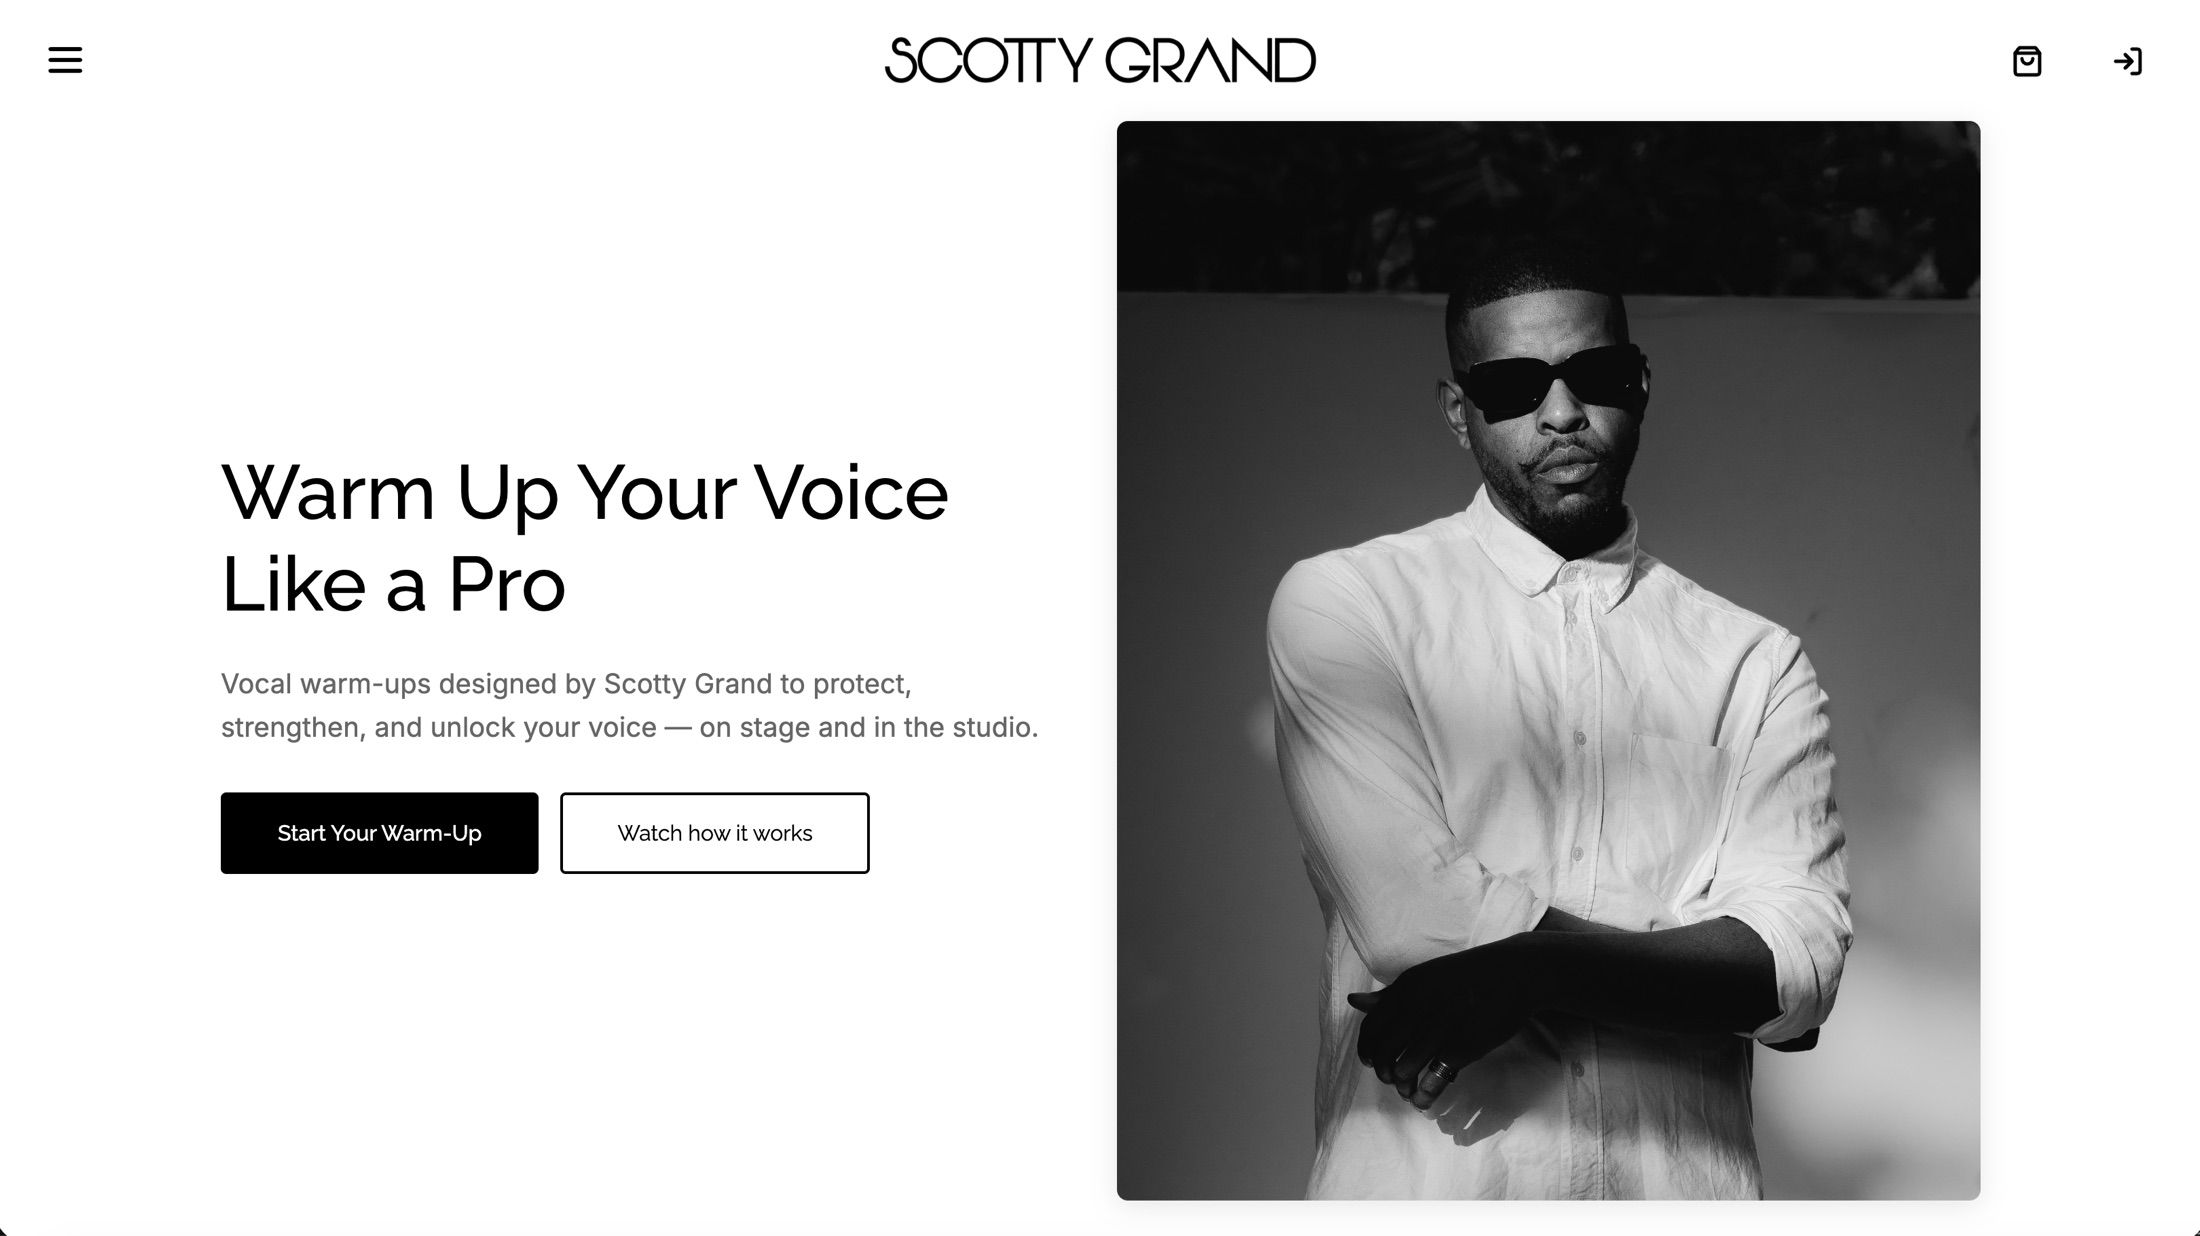
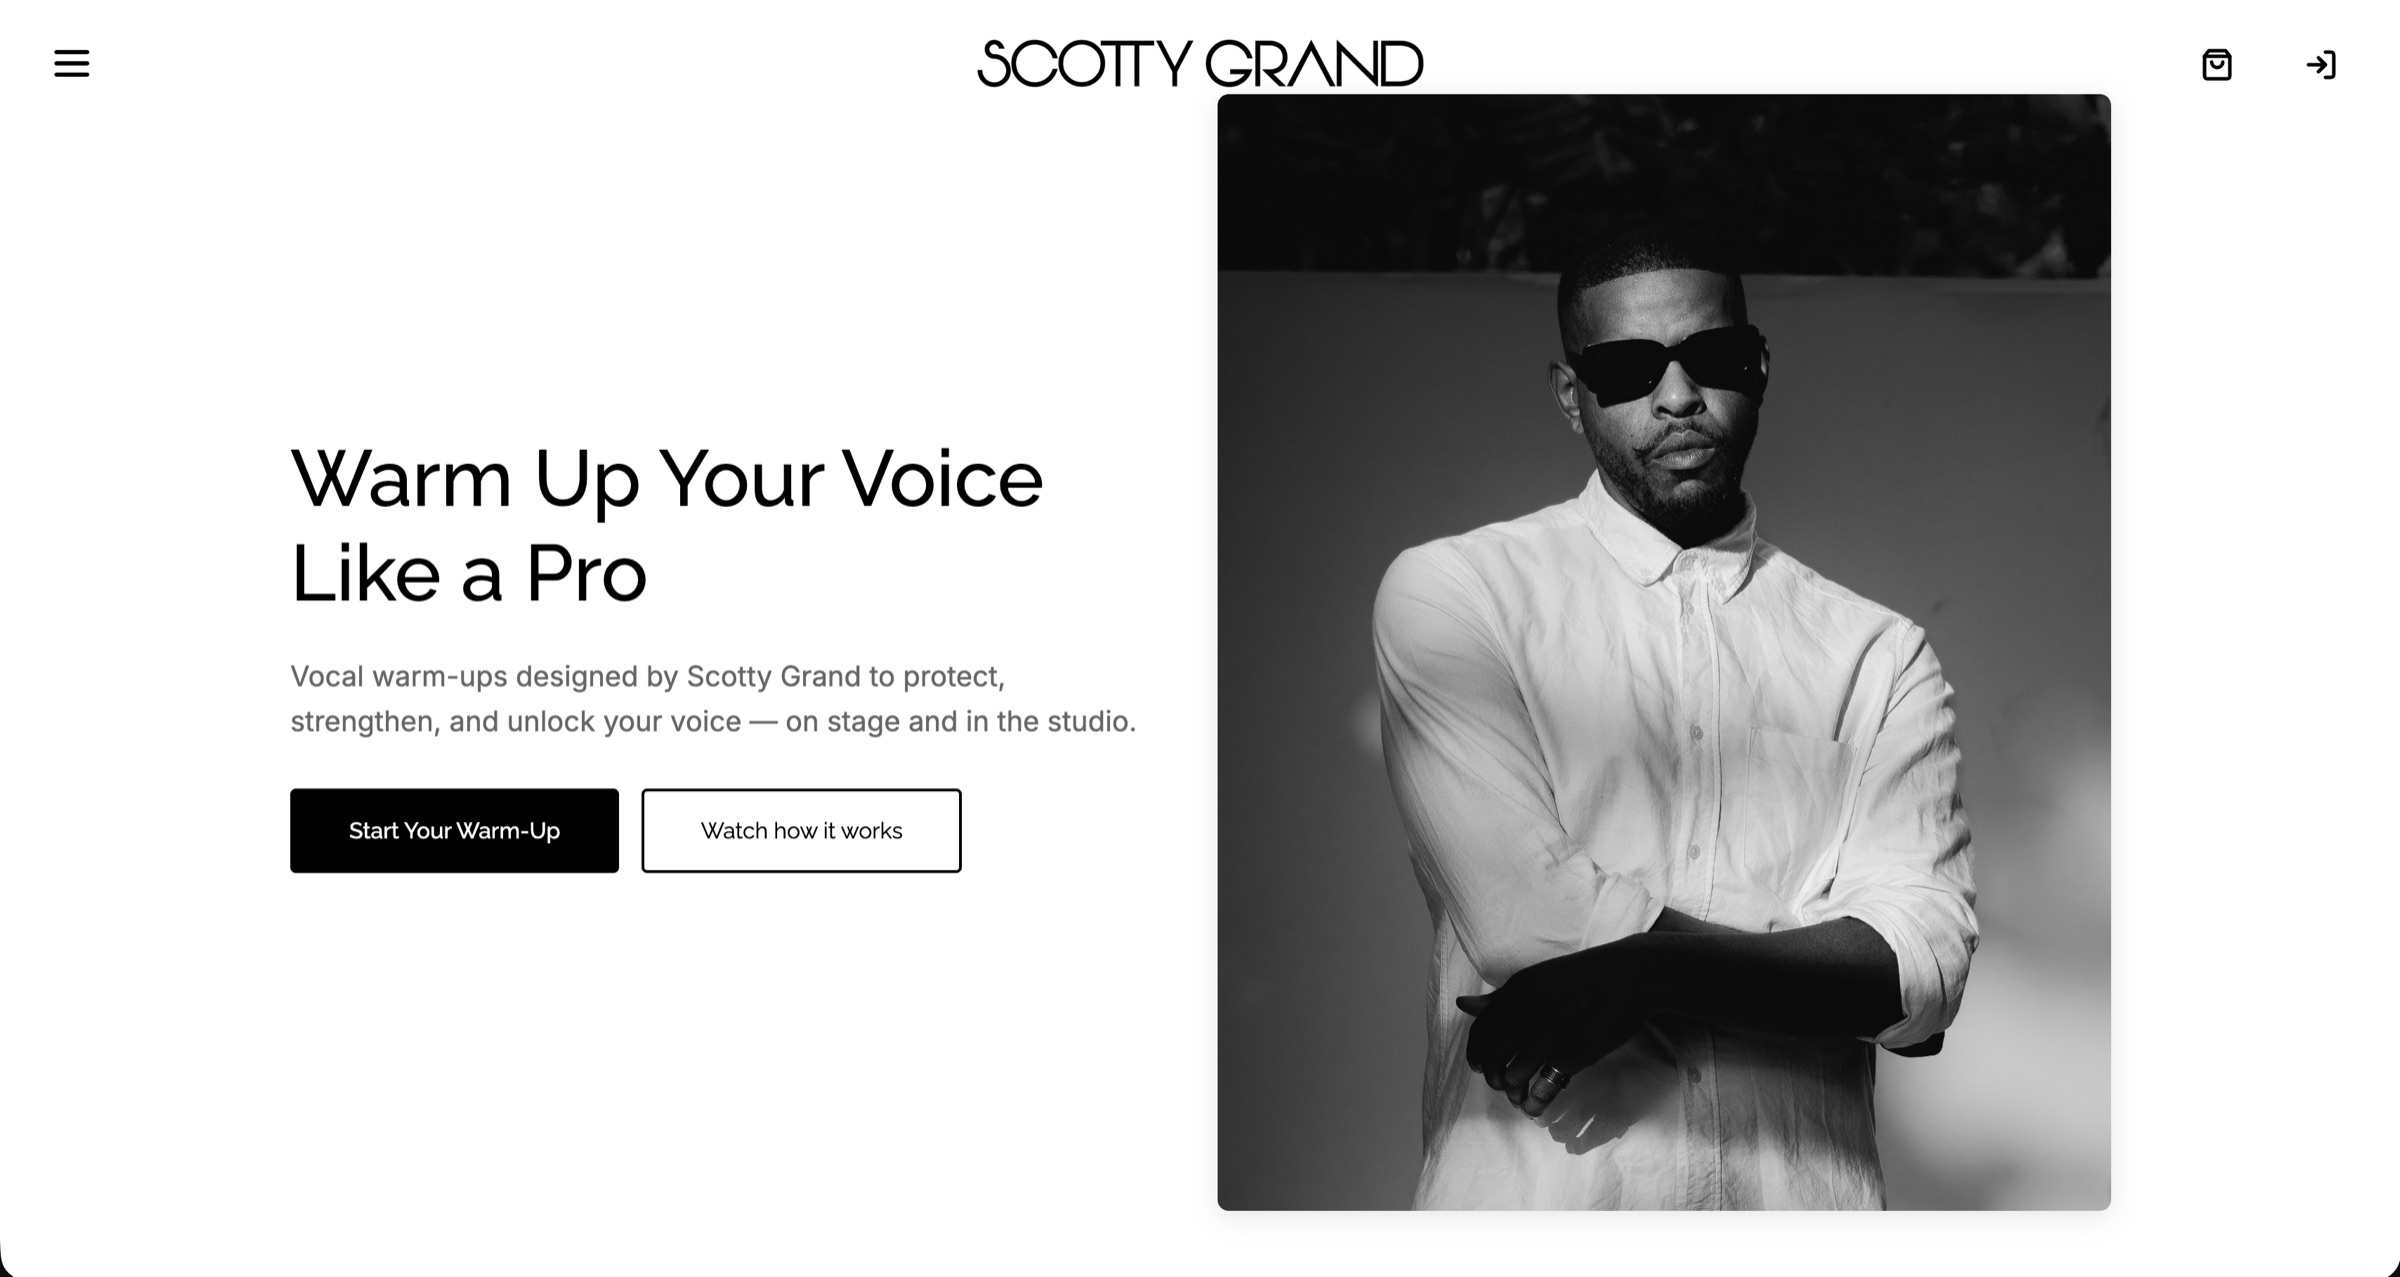
Scotty Grand: replace temporary screenshots with Cloudinary sources
Downloaded and processed through the local pipeline — no runtime
Cloudinary dependency, all assets self-hosted.

- portrait: the original black and white photography, 2086x2607 native
  and already 4:5, which is exactly the slot it fills. 1800px q82.
- site-home / site-detail: higher-resolution captures replacing the
  earlier screenshots. 2400px q82.
- about: retained at 2400px but referenced by no story block.
- typography: unchanged — still the wordmark plate.

The portrait caption drops "original files pending" now that the real
photography is in place. Story architecture untouched.

diff --git a/src/data/projects.js b/src/data/projects.js
@@ -70,25 +70,34 @@ export const projects = [
       cover: {
         src: '/projects/scotty-grand/site-home.jpg',
         alt: 'The Scotty Grand website opening on a full-screen black and white portrait beneath the wordmark',
-        width: 2200,
-        height: 1237,
+        width: 2400,
+        height: 1284,
+      },
+      portrait: {
+        src: '/projects/scotty-grand/portrait.jpg',
+        alt: 'Black and white portrait of Scotty Grand in a white shirt and dark sunglasses, arms folded, against a sunlit wall',
+        width: 1800,
+        height: 2249,
       },
       'site-home': {
         src: '/projects/scotty-grand/site-home.jpg',
         alt: 'The Scotty Grand website opening on a full-screen black and white portrait beneath the wordmark',
-        width: 2200,
-        height: 1237,
+        width: 2400,
+        height: 1284,
       },
       'site-detail': {
         src: '/projects/scotty-grand/site-detail.jpg',
         alt: 'A section of the Scotty Grand site pairing the headline "Warm Up Your Voice Like a Pro" with a portrait',
-        width: 2200,
-        height: 1236,
+        width: 2400,
+        height: 1277,
       },
-
-      // Pending. `portrait` needs the original black and white photography,
-      // not a crop of the screenshot above.
-      portrait: null,
+      // Available, deliberately unused. No story block references it yet.
+      about: {
+        src: '/projects/scotty-grand/about.jpg',
+        alt: 'The About page of the Scotty Grand site, pairing a portrait with a biography',
+        width: 2400,
+        height: 1280,
+      },
     },
   },
   {

diff --git a/src/data/en/projects.js b/src/data/en/projects.js
@@ -82,7 +82,7 @@ export const projectCopy = {
         media: 'portrait',
         width: 'inset',
         aspect: '4 / 5',
-        caption: 'Portrait photography — original files pending',
+        caption: 'Portrait',
       },
       {
         type: 'statement',
